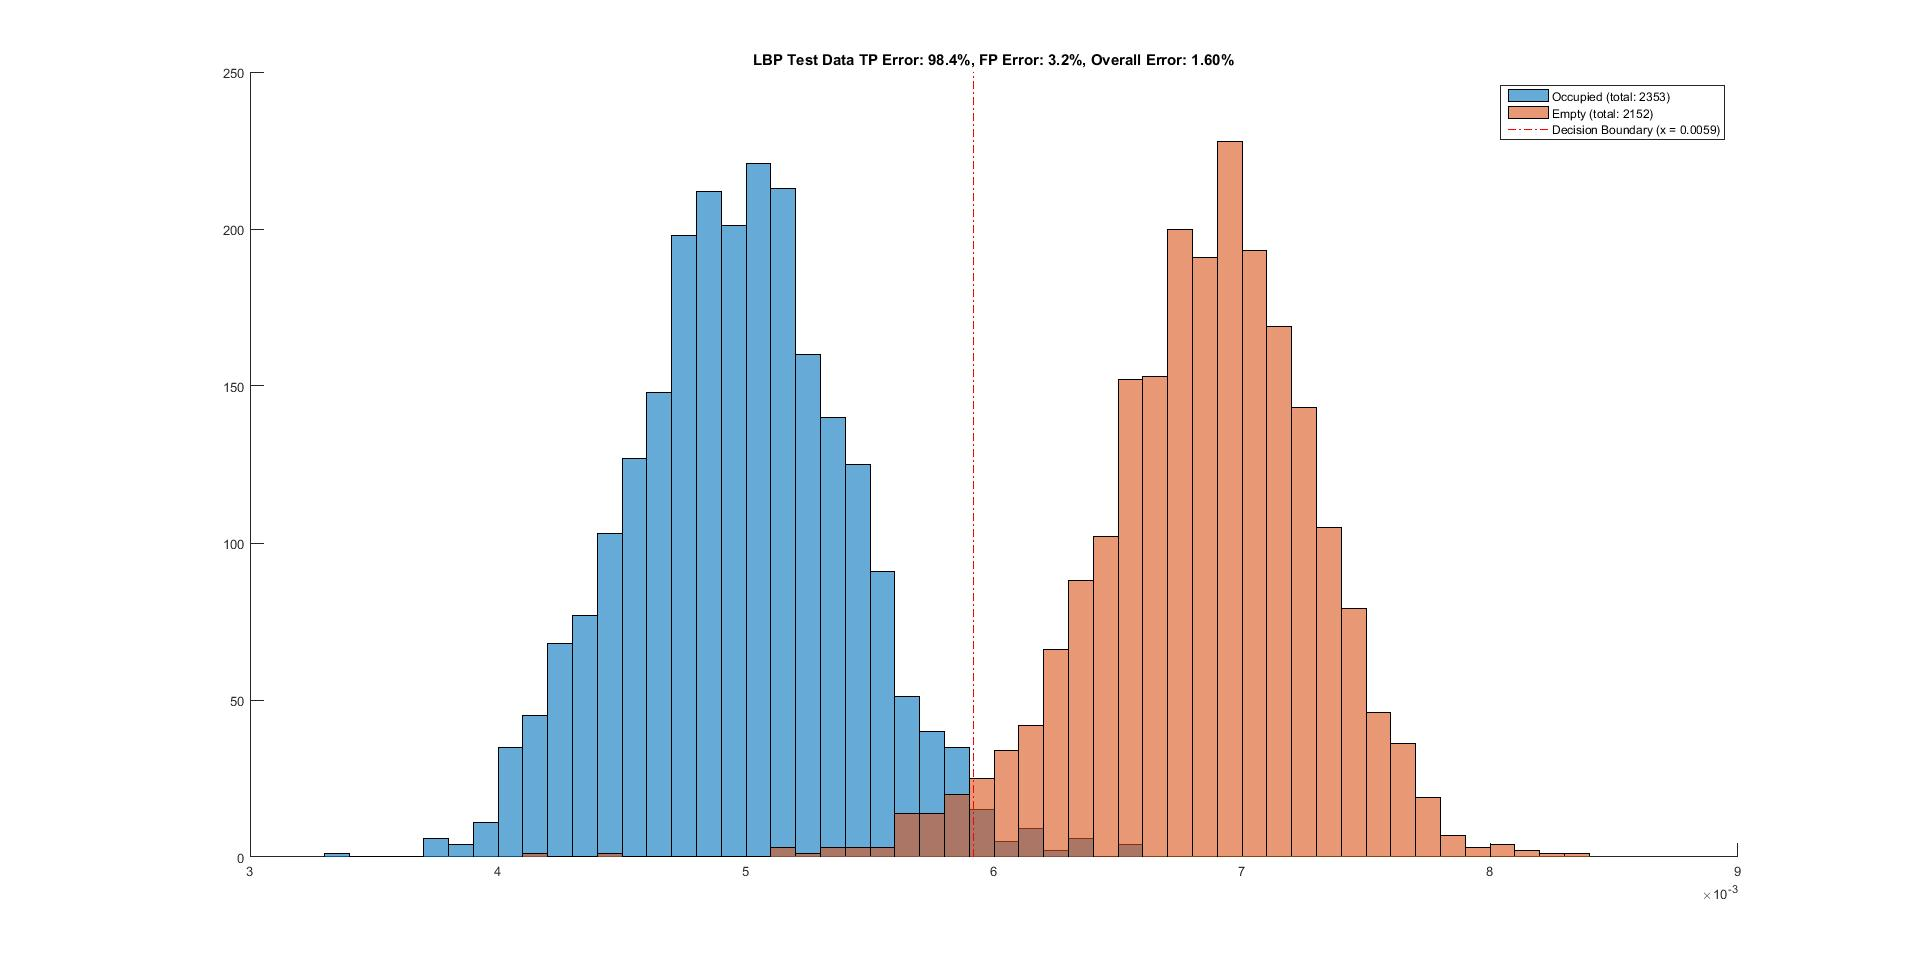
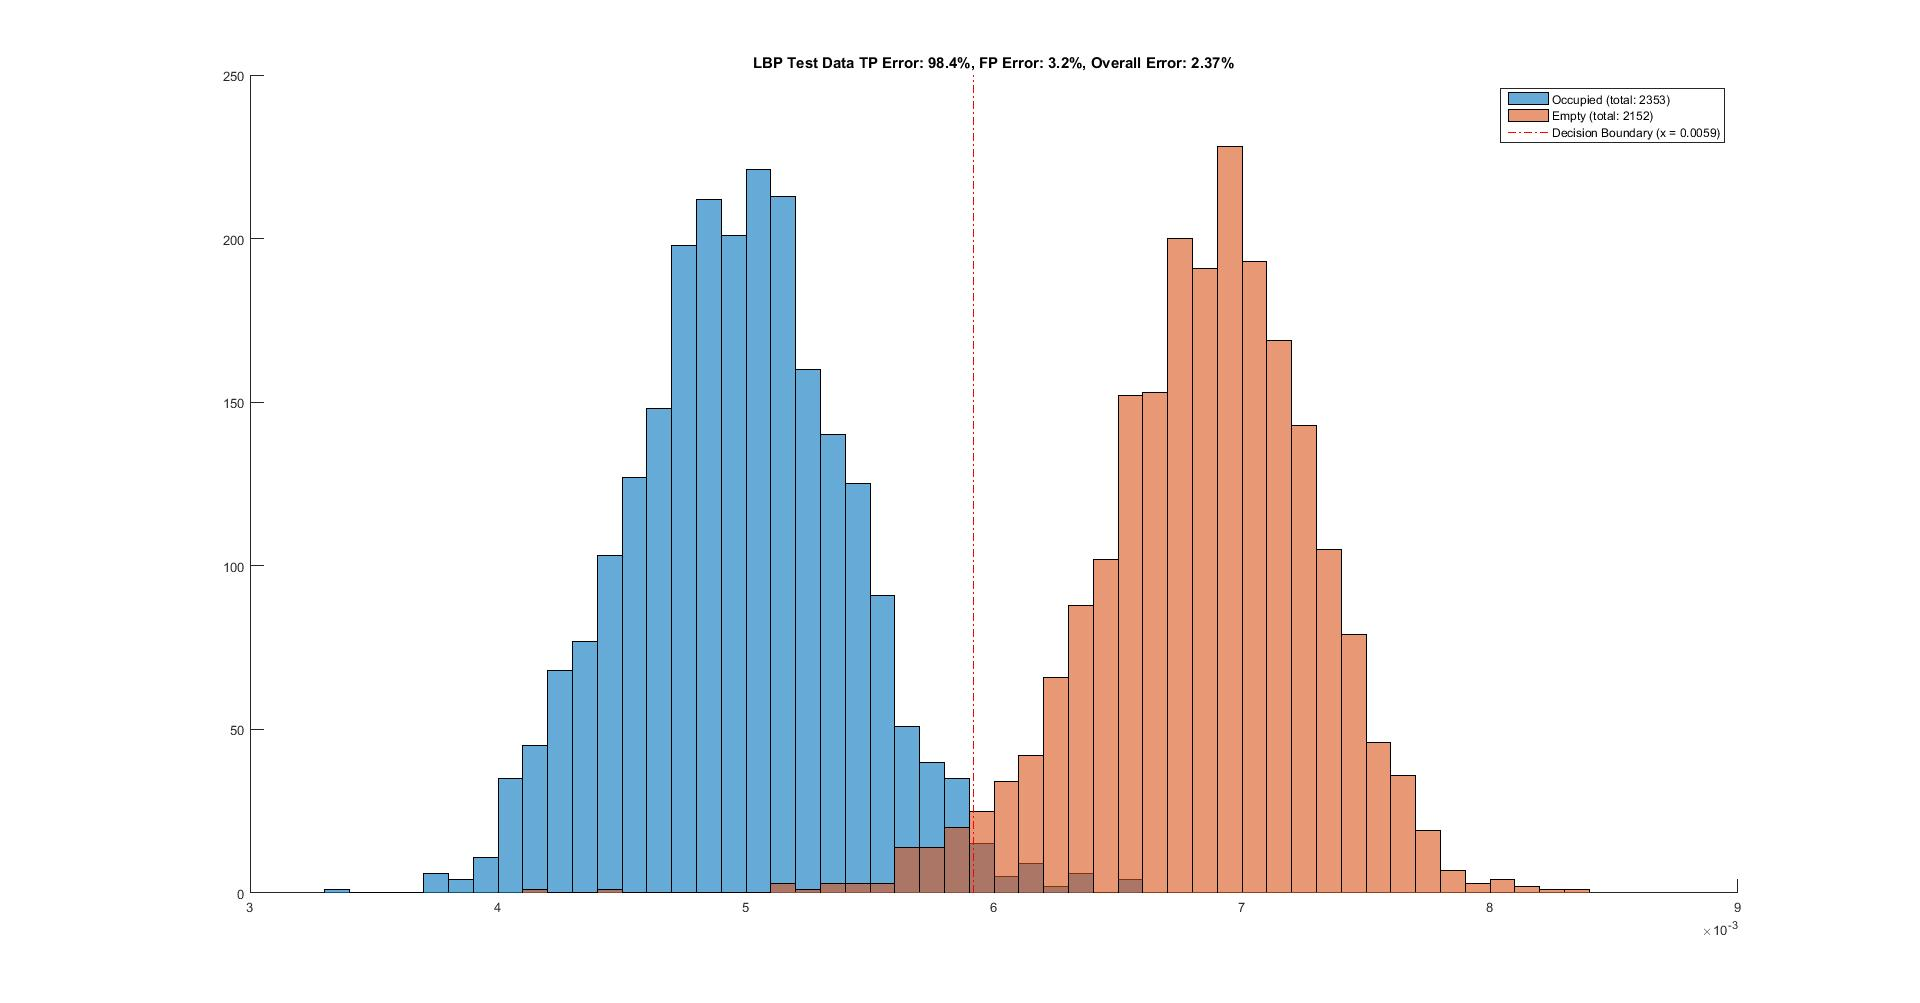
fix in evaluate
was missing *100

Changed region(s): [[0.7812, 0.0623, 0.9062, 0.1558], [0.4062, 0.8723, 0.4688, 0.9034], [0.7812, 0.8723, 0.8125, 0.9034]]

diff --git a/Evaluate.m b/Evaluate.m
@@ -31,7 +31,7 @@ function confusion_matrix = Evaluate( feature_vector1,feature_vector2, p_vector,
         FP = sum(p_empty < decision_boundary)/length(p_empty)*100;
 
         % Type 2 Error: False Negatives - Occupied when classified as empty
-        FN = sum(p_occupied > decision_boundary)/length(p_occupied);  
+        FN = sum(p_occupied > decision_boundary)/length(p_occupied)*100;  
     end
     TP = sum(p_occupied < decision_boundary)/length(p_occupied)*100;
     TN = sum(p_empty > decision_boundary)/length(p_empty)*100;
@@ -41,6 +41,7 @@ function confusion_matrix = Evaluate( feature_vector1,feature_vector2, p_vector,
     str1 = sprintf('%s Test Data TP Error: %.1f%%, FP Error: %.1f%%, Overall Error: %.2f%%', str, TP, FP, Overall_Error);
     title(str1);
 
-    confusion_matrix = [TP FN; FP TN];
+    c = [TP FN; FP TN];
+    confusion_matrix = array2table(c, 'RowNames', {'occupied' 'empty'}, 'VariableNames', {'occupied', 'empty'});
 end
 

diff --git a/Main.m b/Main.m
@@ -89,3 +89,6 @@ end
 disp('Evaluating LBP and LPQ Test Vectors');
 c_mat_LBP = Evaluate(LBP_test_features_empty, LBP_test_features_occupied, LBP_V, LBP_db, 'LBP')
 c_mat_LPQ = Evaluate(LPQ_test_features_empty, LPQ_test_features_occupied, LPQ_V, LPQ_db, 'LPQ')
+
+
+
